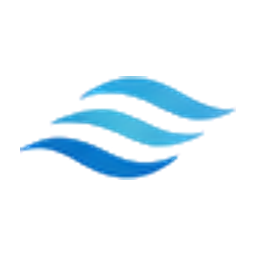
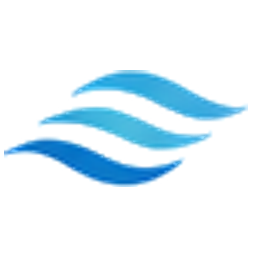
Refine HVAC demo brand marks

Changed region(s): [[0.0, 0.25, 0.9688, 0.75], [0.5, 0.4375, 0.5312, 0.4688]]

diff --git a/demo/hvac-assistant-chatbot-demo/index.html b/demo/hvac-assistant-chatbot-demo/index.html
@@ -365,9 +365,10 @@
     }
 
     /* Compact brand symbols; launcher and avatar containers stay unchanged. */
-    .launcher-icon.brand-mark { display: block; width: 38px; height: 38px; object-fit: contain; }
-    .avatar .brand-mark { display: block; width: 30px; height: 30px; object-fit: contain; }
-    @media (max-width: 999px) { .avatar .brand-mark { width: 28px; height: 28px; } }
+    .chat-launcher { padding: 0; }
+    .launcher-icon.brand-mark { display: block; width: 54px; height: 54px; padding: 3.75px; object-fit: contain; }
+    .avatar .brand-mark { display: block; width: 32px; height: 32px; padding: 5.77px; object-fit: contain; }
+    @media (max-width: 999px) { .launcher-icon.brand-mark { width: 51px; height: 51px; padding: 3.645px; } .avatar .brand-mark { width: 26px; height: 26px; padding: 3.235px; } }
   </style>
 </head>
 <body>

diff --git a/demo/hvac-company-chatbot-demo/index.html b/demo/hvac-company-chatbot-demo/index.html
@@ -365,9 +365,10 @@
     }
 
     /* Compact brand symbols; launcher and avatar containers stay unchanged. */
-    .launcher-icon.brand-mark { display: block; width: 38px; height: 38px; object-fit: contain; }
-    .avatar .brand-mark { display: block; width: 30px; height: 30px; object-fit: contain; }
-    @media (max-width: 999px) { .avatar .brand-mark { width: 28px; height: 28px; } }
+    .chat-launcher { padding: 0; }
+    .launcher-icon.brand-mark { display: block; width: 54px; height: 54px; padding: 3.75px; object-fit: contain; }
+    .avatar .brand-mark { display: block; width: 32px; height: 32px; padding: 5.77px; object-fit: contain; }
+    @media (max-width: 999px) { .launcher-icon.brand-mark { width: 51px; height: 51px; padding: 3.645px; } .avatar .brand-mark { width: 26px; height: 26px; padding: 3.235px; } }
   </style>
 </head>
 <body>

diff --git a/demo/hvac-solutions-chatbot-demo/index.html b/demo/hvac-solutions-chatbot-demo/index.html
@@ -365,9 +365,10 @@
     }
 
     /* Compact brand symbols; launcher and avatar containers stay unchanged. */
-    .launcher-icon.brand-mark { display: block; width: 38px; height: 38px; object-fit: contain; }
-    .avatar .brand-mark { display: block; width: 30px; height: 30px; object-fit: contain; }
-    @media (max-width: 999px) { .avatar .brand-mark { width: 28px; height: 28px; } }
+    .chat-launcher { padding: 0; }
+    .launcher-icon.brand-mark { display: block; width: 54px; height: 54px; padding: 3.75px; object-fit: contain; }
+    .avatar .brand-mark { display: block; width: 32px; height: 32px; padding: 5.77px; object-fit: contain; }
+    @media (max-width: 999px) { .launcher-icon.brand-mark { width: 51px; height: 51px; padding: 3.645px; } .avatar .brand-mark { width: 26px; height: 26px; padding: 3.235px; } }
   </style>
 </head>
 <body>

diff --git a/demo/hvac-services-chatbot-demo/index.html b/demo/hvac-services-chatbot-demo/index.html
@@ -365,9 +365,10 @@
     }
 
     /* Compact brand symbols; launcher and avatar containers stay unchanged. */
-    .launcher-icon.brand-mark { display: block; width: 38px; height: 38px; object-fit: contain; }
-    .avatar .brand-mark { display: block; width: 30px; height: 30px; object-fit: contain; }
-    @media (max-width: 999px) { .avatar .brand-mark { width: 28px; height: 28px; } }
+    .chat-launcher { padding: 0; }
+    .launcher-icon.brand-mark { display: block; width: 54px; height: 54px; padding: 2px; object-fit: contain; }
+    .avatar .brand-mark { display: block; width: 32px; height: 32px; padding: 5px; object-fit: contain; }
+    @media (max-width: 999px) { .launcher-icon.brand-mark { width: 51px; height: 51px; } .avatar .brand-mark { width: 26px; height: 26px; padding: 2.5px; } }
   </style>
 </head>
 <body>
